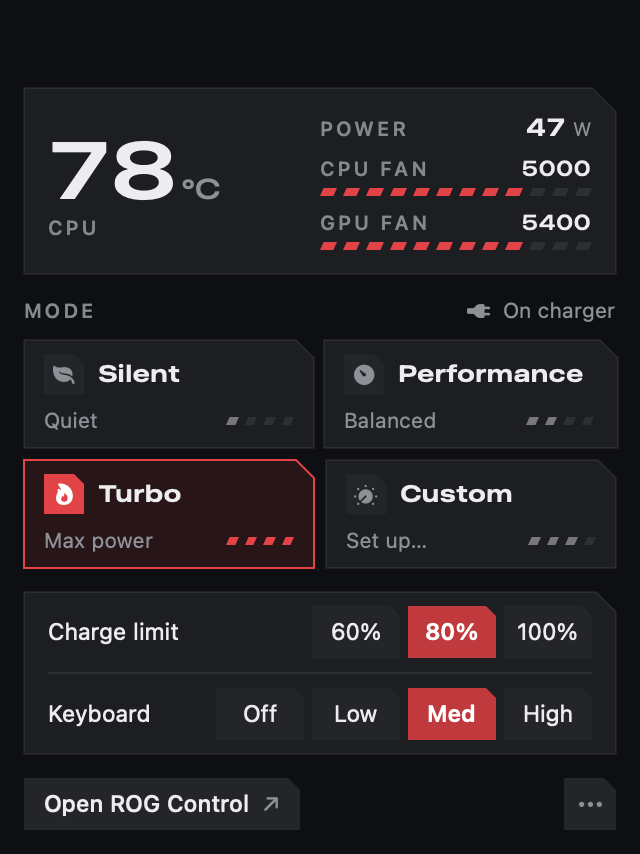
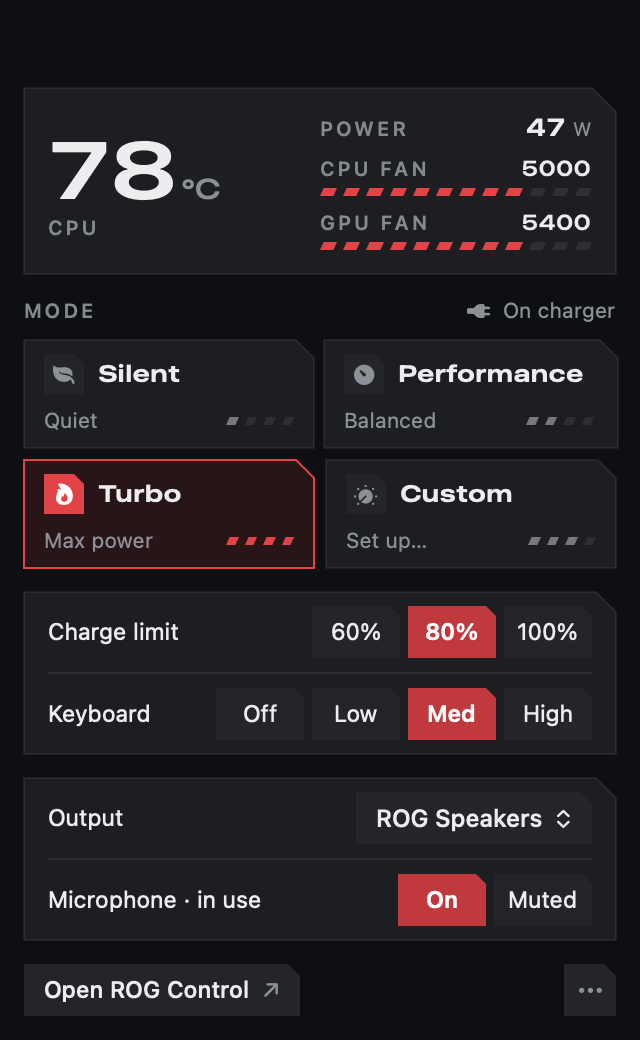
Docs for 0.5.2: rogkeyd, Doctor, Aura, ABI 4/5, release table, new screenshots; CI builds rogkeyd

diff --git a/macos/RogControl/RogControl.swift b/macos/RogControl/RogControl.swift
@@ -2664,6 +2664,7 @@ enum Snapshot {
         st.gpuMux = 1; st.dgpu = 0; st.baseTgp = 55
         st.batDesign = 4580; st.batFull = 4132; st.batNow = 2440; st.batState = 0; st.batRate = 0
         st.lighting = true; st.kbd = 2; st.slash = Slash(mode: 7, bright: 2, interval: 1).packed; st.hid = true
+        st.abi = Asus.abi; st.hasAura = true; st.aura = 1
         let m = RogModel(preview: st, tctl: 78, watts: 46.8,
                          curve: [43, 68, 70, 72, 74, 76, 78, 255, 1, 6, 8, 13, 18, 22, 32, 32],
                          gpuCurve: [43, 67, 68, 70, 70, 70, 70, 255, 1, 6, 8, 13, 18, 22, 32, 32])

diff --git a/README.vi.md b/README.vi.md
@@ -20,9 +20,10 @@ mã asusctl nào ở đây; xem [NOTICE.md](NOTICE.md).
 
 | Phần | Ở đâu | Làm gì |
 |---|---|---|
-| `AsusWmi.kext` | `kexts/AsusWmi` | Khớp thiết bị ACPI `ATKD` (`PNP0C14`, `_UID "ATK"`) và gọi các hàm WMI như `asus-wmi`: profile, giới hạn PPT (kiểm tra theo nguồn AC hoặc pin), đường cong quạt, tốc độ quạt, giới hạn sạc, đèn bàn phím (báo cáo HID của N-KEY), đèn Slash, phím nóng ATKD |
+| `AsusWmi.kext` | `kexts/AsusWmi` | Khớp thiết bị ACPI `ATKD` (`PNP0C14`, `_UID "ATK"`) và gọi các hàm WMI như `asus-wmi`: profile, giới hạn PPT (kiểm tra theo nguồn AC hoặc pin), đường cong quạt, tốc độ quạt, giới hạn sạc, đèn bàn phím và Aura (báo cáo HID của N-KEY), đèn Slash, các phím Fn do rogkeyd chuyển sang (`kAsusUcKey`, ABI 5) |
 | `AmdCppc.kext` | `kexts/AmdCppc` | Ryzen AI 9 HX 370: Tctl và công suất package (`debug.amdcppc.sensors`), xung nhịp từng CPU (`debug.amdcppc.freq`), điều khiển CPPC boost và EPP |
-| `RogControl.app` | `macos/RogControl` | App SwiftUI trên thanh menu kèm cửa sổ (Performance, Battery, Lighting, General). Nói chuyện với AsusWmi qua user client, không cần sudo |
+| `RogControl.app` | `macos/RogControl` | App SwiftUI trên thanh menu kèm cửa sổ: chế độ, số đo trực tiếp, pin, giới hạn Custom, đèn, âm thanh, micro và camera, cùng Doctor kiểm tra toàn bộ hệ thống. Nói chuyện với AsusWmi qua user client, không cần sudo. Mỗi người dùng chỉ chạy một bản |
+| `rogkeyd.app` | `macos/RogKeys` | LaunchAgent đọc phím Fn của N-KEY (báo cáo vendor 0x5A, macOS bỏ qua) rồi chuyển cho AsusWmi; tự xử lý tắt mic, chế độ máy bay, Fn+F9 và M4. Cần quyền Input Monitoring (và Accessibility cho Fn+F9) |
 | `AmdCppcPolicy` | `macos/AmdCppcPolicy` | LaunchDaemon chạy root, áp chính sách CPPC sau khi khởi động và thức dậy |
 
 ## Trạng thái
@@ -39,6 +40,9 @@ giới hạn công suất là của GA403WM. Chi tiết từng tính năng và v
 
 <p align="center"><img src="docs/images/rogcontrol-popover.png" alt="RogControl menu bar panel" width="320"></p>
 <p align="center"><em>Panel trên thanh menu</em></p>
+
+<p align="center"><img src="docs/images/rogcontrol-doctor.png" alt="Doctor dialog: drivers, Fn keys, audio, microphone, camera and system checks" width="430">&nbsp;&nbsp;<img src="docs/images/rogcontrol-doctor-fix.png" alt="Doctor guided fix for rogkeyd's Input Monitoring permission" width="430"></p>
+<p align="center"><em>Doctor: mọi thành phần trong một danh sách, và các bước sửa khi thiếu quyền</em></p>
 
 <p align="center"><img src="docs/images/rogcontrol-limits.png" alt="Custom limits dialog" width="430">&nbsp;&nbsp;<img src="docs/images/fan-curves.png" alt="Fan curves dialog" width="430"></p>
 <p align="center"><em>Dialog giới hạn Custom (burst, short boost, sustained bằng lời dễ hiểu) và đường cong quạt của firmware</em></p>
@@ -59,6 +63,8 @@ giới hạn công suất là của GA403WM. Chi tiết từng tính năng và v
 
 | Release | Nội dung |
 |---|---|
+| [rogcontrol-v0.5.2](https://github.com/thanhnndev/rog-control-macos/releases/tag/rogcontrol-v0.5.2) | `RogControl-0.5.2.dmg`: Doctor (kiểm tra và hướng dẫn sửa), điều khiển Aura, hàng âm thanh thẳng lưới, mỗi người dùng một bản. `AsusWmi-0.2.2.kext.zip` (phím Fn, Aura, sửa panic Fn+F7/F8; ABI 5) và `rogkeyd-1.2.app.zip` (đọc phím Fn); xem [docs/FN-HOTKEYS.md](docs/FN-HOTKEYS.md) |
+| [rogcontrol-v0.4.0](https://github.com/thanhnndev/rog-control-macos/releases/tag/rogcontrol-v0.4.0) | `RogControl-0.4.0.dmg`: đầu ra âm thanh, profile âm thanh, micro, Clear Mic và camera |
 | [rogcontrol-v0.3.3](https://github.com/thanhnndev/rog-control-macos/releases/tag/rogcontrol-v0.3.3) | `RogControl-0.3.3.dmg`: cửa sổ một màn hình với dialog, gọn không thừa khoảng trống, icon thanh menu theo kiểu badge của app, số nhiệt độ và công suất ổn định hơn; mở DMG rồi kéo vào Applications. Kext giữ nguyên ở `rog-v1.0` |
 | [rog-v1.0](https://github.com/thanhnndev/rog-control-macos/releases/tag/rog-v1.0) | `AsusWmi.kext`, `AmdCppc.kext`, `AmdCppcPolicy`, `RogControl.app`, `SHA256SUMS.txt`. Binary chép nguyên từ `kext-v1.1` của repo EFI; cùng checksum |
 
@@ -72,6 +78,7 @@ bash scripts/build-amdcppc-policy.sh       # build/AmdCppcPolicy
 bash scripts/test-rogcontrol.sh            # test giải mã đường cong quạt, không ghi phần cứng
 bash scripts/build-rogcontrol.sh           # build/RogControl.app
 bash scripts/build-rogcontrol.sh --install # chép vào /Applications, chạy khi đăng nhập
+bash scripts/build-rogkeys.sh --install    # LaunchAgent rogkeyd (phím Fn); sau đó cấp Input Monitoring
 bash scripts/build-dmg.sh                  # build/RogControl-<version>.dmg, kéo thả vào Applications
 ```
 
@@ -88,12 +95,13 @@ không sửa `config.plist`. AmdCppc và daemon chính sách: [docs/CPU-POWER.md
 * [docs/ASUSCTL-MACOS.md](docs/ASUSCTL-MACOS.md): bản đồ tính năng, id thiết bị WMI, ABI, số đo.
 * [docs/rog-control-design.md](docs/rog-control-design.md): quyết định thiết kế thanh menu và cửa sổ, quy tắc vẽ đường cong quạt.
 * [docs/CPU-POWER.md](docs/CPU-POWER.md): kiểm tra AmdCppc và chính sách CPPC.
-* [docs/FN-HOTKEYS.md](docs/FN-HOTKEYS.md) (nhánh `dev/fn-hotkeys`), [docs/AUDIO-ROG.md](docs/AUDIO-ROG.md) (nhánh `dev/audio`).
+* [docs/FN-HOTKEYS.md](docs/FN-HOTKEYS.md): bảng phím Fn, rogkeyd, và lý do không thay driver bàn phím.
+* [docs/AUDIO-ROG.md](docs/AUDIO-ROG.md) (nhánh `dev/audio`).
 
 ## Nhánh
 
-* `main`: app thanh menu đang dùng và hai kext.
-* `dev/fn-hotkeys`: ánh xạ phím Fn và M của GA403WM. Chưa gộp.
+* `main`: app thanh menu đang dùng, rogkeyd và hai kext.
+* `dev/fn-hotkeys`: cách làm phím Fn cũ qua ATKD WMI, vốn không bao giờ kích hoạt trên máy này. Đã được rogkeyd thay thế; không gộp.
 * `dev/audio`: viết lại app từ đầu có trang âm thanh, plug-in HAL RogAudio và chuỗi mic. Lần cuối động tới nhánh này loa vẫn
   chưa nghe được trong test có người nghe. Chưa gộp.
 

diff --git a/README.md b/README.md
@@ -20,9 +20,10 @@ boot without them (OpenCore picker, remove the kext from `config.plist`).
 
 | Part | Where | What it does |
 |---|---|---|
-| `AsusWmi.kext` | `kexts/AsusWmi` | Matches the ACPI `ATKD` device (`PNP0C14`, `_UID "ATK"`) and calls its WMI methods like `asus-wmi`: platform profile, PPT limits (range-checked for AC or battery), fan curves, fan speeds, charge limit, keyboard light (N-KEY HID report), Slash lighting, ATKD hotkeys |
+| `AsusWmi.kext` | `kexts/AsusWmi` | Matches the ACPI `ATKD` device (`PNP0C14`, `_UID "ATK"`) and calls its WMI methods like `asus-wmi`: platform profile, PPT limits (range-checked for AC or battery), fan curves, fan speeds, charge limit, keyboard light and Aura (N-KEY HID reports), Slash lighting, the Fn keys rogkeyd passes on (`kAsusUcKey`, ABI 5) |
 | `AmdCppc.kext` | `kexts/AmdCppc` | Ryzen AI 9 HX 370: Tctl and package power (`debug.amdcppc.sensors`), per-CPU clocks (`debug.amdcppc.freq`), CPPC boost and EPP controls |
-| `RogControl.app` | `macos/RogControl` | SwiftUI menu bar app plus a window (Performance, Battery, Lighting, General). Talks to AsusWmi through its user client, no sudo |
+| `RogControl.app` | `macos/RogControl` | SwiftUI menu bar app plus a window: mode, live readings, battery, Custom limits, lighting, sound, microphone and camera, and a Doctor that checks the whole setup. Talks to AsusWmi through its user client, no sudo. One copy per user |
+| `rogkeyd.app` | `macos/RogKeys` | LaunchAgent that reads the N-KEY Fn keys (vendor report 0x5A), which macOS drops, and hands them to AsusWmi; does mic mute, airplane mode, Fn+F9 and M4 itself. Needs Input Monitoring (and Accessibility for Fn+F9) |
 | `AmdCppcPolicy` | `macos/AmdCppcPolicy` | Root LaunchDaemon that applies the CPPC policy after boot and wake |
 
 ## Status
@@ -40,6 +41,9 @@ are untested; the power-limit ranges are the GA403WM's. Per-feature detail and t
 
 <p align="center"><img src="docs/images/rogcontrol-popover.png" alt="RogControl menu bar panel" width="320"></p>
 <p align="center"><em>Menu bar panel</em></p>
+
+<p align="center"><img src="docs/images/rogcontrol-doctor.png" alt="Doctor dialog: drivers, Fn keys, audio, microphone, camera and system checks" width="430">&nbsp;&nbsp;<img src="docs/images/rogcontrol-doctor-fix.png" alt="Doctor guided fix for rogkeyd's Input Monitoring permission" width="430"></p>
+<p align="center"><em>Doctor: every dependency in one list, and the guided fix for a missing permission</em></p>
 
 <p align="center"><img src="docs/images/rogcontrol-limits.png" alt="Custom limits dialog" width="430">&nbsp;&nbsp;<img src="docs/images/fan-curves.png" alt="Fan curves dialog" width="430"></p>
 <p align="center"><em>Custom limits dialog (burst, short boost, sustained in plain words) and the firmware fan curves</em></p>
@@ -60,6 +64,8 @@ are untested; the power-limit ranges are the GA403WM's. Per-feature detail and t
 
 | Release | Contents |
 |---|---|
+| [rogcontrol-v0.5.2](https://github.com/thanhnndev/rog-control-macos/releases/tag/rogcontrol-v0.5.2) | `RogControl-0.5.2.dmg`: Doctor (checks and guided fixes), Aura control, sound row on the grid, one copy per user. `AsusWmi-0.2.2.kext.zip` (Fn keys, Aura, the Fn+F7/F8 panic fix; ABI 5) and `rogkeyd-1.2.app.zip` (Fn keys reader); see [docs/FN-HOTKEYS.md](docs/FN-HOTKEYS.md) |
+| [rogcontrol-v0.4.0](https://github.com/thanhnndev/rog-control-macos/releases/tag/rogcontrol-v0.4.0) | `RogControl-0.4.0.dmg`: sound output, sound profile, microphone, Clear Mic and camera |
 | [rogcontrol-v0.3.3](https://github.com/thanhnndev/rog-control-macos/releases/tag/rogcontrol-v0.3.3) | `RogControl-0.3.3.dmg`: one-screen window with dialogs, no spare space, menu bar icon in the app badge style, steadier temperature and power readings; open it and drag the app into Applications. Kexts unchanged, still in `rog-v1.0` |
 | [rog-v1.0](https://github.com/thanhnndev/rog-control-macos/releases/tag/rog-v1.0) | `AsusWmi.kext`, `AmdCppc.kext`, `AmdCppcPolicy`, `RogControl.app`, `SHA256SUMS.txt`. Binaries copied unchanged from `kext-v1.1` of the EFI repo; same checksums |
 
@@ -73,6 +79,7 @@ bash scripts/build-amdcppc-policy.sh       # build/AmdCppcPolicy
 bash scripts/test-rogcontrol.sh            # fan-curve decoding, never writes hardware
 bash scripts/build-rogcontrol.sh           # build/RogControl.app
 bash scripts/build-rogcontrol.sh --install # copy to /Applications, start at login
+bash scripts/build-rogkeys.sh --install    # rogkeyd LaunchAgent (Fn keys); then grant Input Monitoring
 bash scripts/build-dmg.sh                  # build/RogControl-<version>.dmg, drag-to-Applications installer
 ```
 
@@ -89,12 +96,13 @@ back. It does not edit `config.plist`. AmdCppc and its policy daemon: [docs/CPU-
 * [docs/ASUSCTL-MACOS.md](docs/ASUSCTL-MACOS.md): feature map, WMI device ids, ABI, measurements.
 * [docs/rog-control-design.md](docs/rog-control-design.md): menu bar and window design decisions, fan-curve drawing rules.
 * [docs/CPU-POWER.md](docs/CPU-POWER.md): AmdCppc audit and the CPPC policy.
-* [docs/FN-HOTKEYS.md](docs/FN-HOTKEYS.md) (branch `dev/fn-hotkeys`), [docs/AUDIO-ROG.md](docs/AUDIO-ROG.md) (branch `dev/audio`).
+* [docs/FN-HOTKEYS.md](docs/FN-HOTKEYS.md): the Fn key map, rogkeyd, and why the keyboard driver is not replaced.
+* [docs/AUDIO-ROG.md](docs/AUDIO-ROG.md) (branch `dev/audio`).
 
 ## Branches
 
-* `main`: the shipped menu bar app and the two kexts.
-* `dev/fn-hotkeys`: mapping of the GA403WM Fn and M keys. Not merged.
+* `main`: the shipped menu bar app, rogkeyd and the two kexts.
+* `dev/fn-hotkeys`: an earlier Fn key attempt through ATKD WMI, which never fires on this machine. Superseded by rogkeyd; not merged.
 * `dev/audio`: a from-scratch rewrite of the app with an audio page, the RogAudio HAL plug-in and mic chain. Speakers were
   still silent in audible tests when the branch was last touched. Not merged.
 

diff --git a/docs/FN-HOTKEYS.md b/docs/FN-HOTKEYS.md
@@ -29,13 +29,26 @@ macOS's keyboard driver (the AppleUserHIDEventService dext) drops page 0xFF31, a
 - **rogkeyd** (`macos/RogKeys`, LaunchAgent `com.itlmt7925.rogkeyd`, `scripts/build-rogkeys.sh --install`) opens the
   keyboard with IOHIDManager and reads reports 0x5A and 0x03. It does mic mute, M4 and Wi-Fi itself and passes every code
   to AsusWmi through user client selector `kAsusUcKey` (ABI 4). Reading a keyboard needs **Input Monitoring** for
-  `~/Library/Application Support/RogControl/rogkeyd.app`, granted once. macOS ties the grant to the binary, so the install
-  keeps an unchanged binary. Log: `~/Library/Logs/rogkeyd.log`.
-- **AsusWmi 0.2.0** handles the keyboard light, Slash, profile and sleep, plus brightness. For brightness it sends the
+  `~/Library/Application Support/RogControl/rogkeyd.app`, granted once; Fn+F9's event tap needs **Accessibility**. macOS
+  ties both grants to the binary, so the install keeps an unchanged binary and a new build needs them again. Log:
+  `~/Library/Logs/rogkeyd.log`.
+- **AsusWmi 0.2.2** handles the keyboard light, Aura, profile and sleep, plus brightness. For brightness it sends the
   ACPI notification the firmware would send to the panel device, which BrightnessKeys already listens to. It counts every
   key in `sysctl debug.asuswmi.hotkey` (`<sequence> <code>`), and RogControl refreshes when that count moves.
 
 Undo: `scripts/build-rogkeys.sh --uninstall`. The AsusWmi key selector does nothing without rogkeyd.
+
+## Install and check
+
+1. AsusWmi 0.2.2 in `EFI/OC/Kexts` (`scripts/macos-install-kext.sh AsusWmi`), reboot.
+2. `bash scripts/build-rogkeys.sh --install` (or unzip `rogkeyd-1.2.app.zip` from the release into
+   `~/Library/Application Support/RogControl/` and run the script's `--install`, which also writes the LaunchAgent).
+3. ROG Control > Doctor. Under Fn keys, **Fix it** walks through the grants: it resets rogkeyd's stale entry
+   (`tccutil reset ListenEvent com.itlmt7925.rogkeyd`) so macOS asks again, opens the Settings pane with `rogkeyd.app` shown
+   in Finder, then restarts rogkeyd and checks again. The same steps exist for Accessibility.
+4. Press Fn+F2: Doctor's "Keys reaching AsusWmi" counts up.
+
+`RogControl --doctor` prints the same report in a terminal.
 
 ## Panic on Fn+F7 / F8 with AsusWmi 0.2.0 (2026-11-05 21:39)
 

diff --git a/docs/ASUSCTL-MACOS.md b/docs/ASUSCTL-MACOS.md
@@ -151,6 +151,13 @@ for checking what `WMNB` does with each device id on this BIOS, and for the EC f
   keyboard without Input Monitoring (IOHIDDeviceOpen 0xe00002e2), so AsusWmi sends them from the kernel
   (`IOHIDDevice::setReport`): `debug.asuswmi.kbd`, `debug.asuswmi.slash`, ABI 3 (`ASUS_SET_KBD`, `ASUS_SET_SLASH`).
   RogControl stores both and sends them at start and after wake.
+* Aura (ABI 5, AsusWmi 0.2.2): G-Helper `AuraMessage` on report 0x5D after its `"ASUS Tech.Inc."` init:
+  `B3 00 <mode> FF 00 00 EB 00 <breathe?1:0> FF 00 00`, then `B5 00 00 00` and `B4`. The GA403 keyboard is single-color,
+  so only Static (0), Breathe (1) and Strobe (0x0A) are offered. `ASUS_SET_AURA` 0..2, `debug.asuswmi.aura`, state word 27.
+  The state read now returns as many words as the client asks for (27 for ABI 3 / 4 apps, 28 for ABI 5).
+* ABI 4 (AsusWmi 0.2.0): `kAsusUcKey`, an Fn key code from rogkeyd, queued and handled on a thread call
+  ([FN-HOTKEYS.md](FN-HOTKEYS.md)). 0.2.0 had a ring overflow (wrapped at 32 bytes on 16 entries) that panicked on Fn+F7/F8;
+  fixed in 0.2.1.
 * Build: `IOHIDDescriptorParser.h` includes `<MacTypes.h>` when `__has_include` finds one, which pulled the host SDK's
   user-space header in; `scripts/build.sh` now compiles with `-nostdlibinc`.
 * **OLED brightness**: the brightness slider appears with NullMoth 1.14 (NVKMS registers the backlight from NBCI `_DSM`
